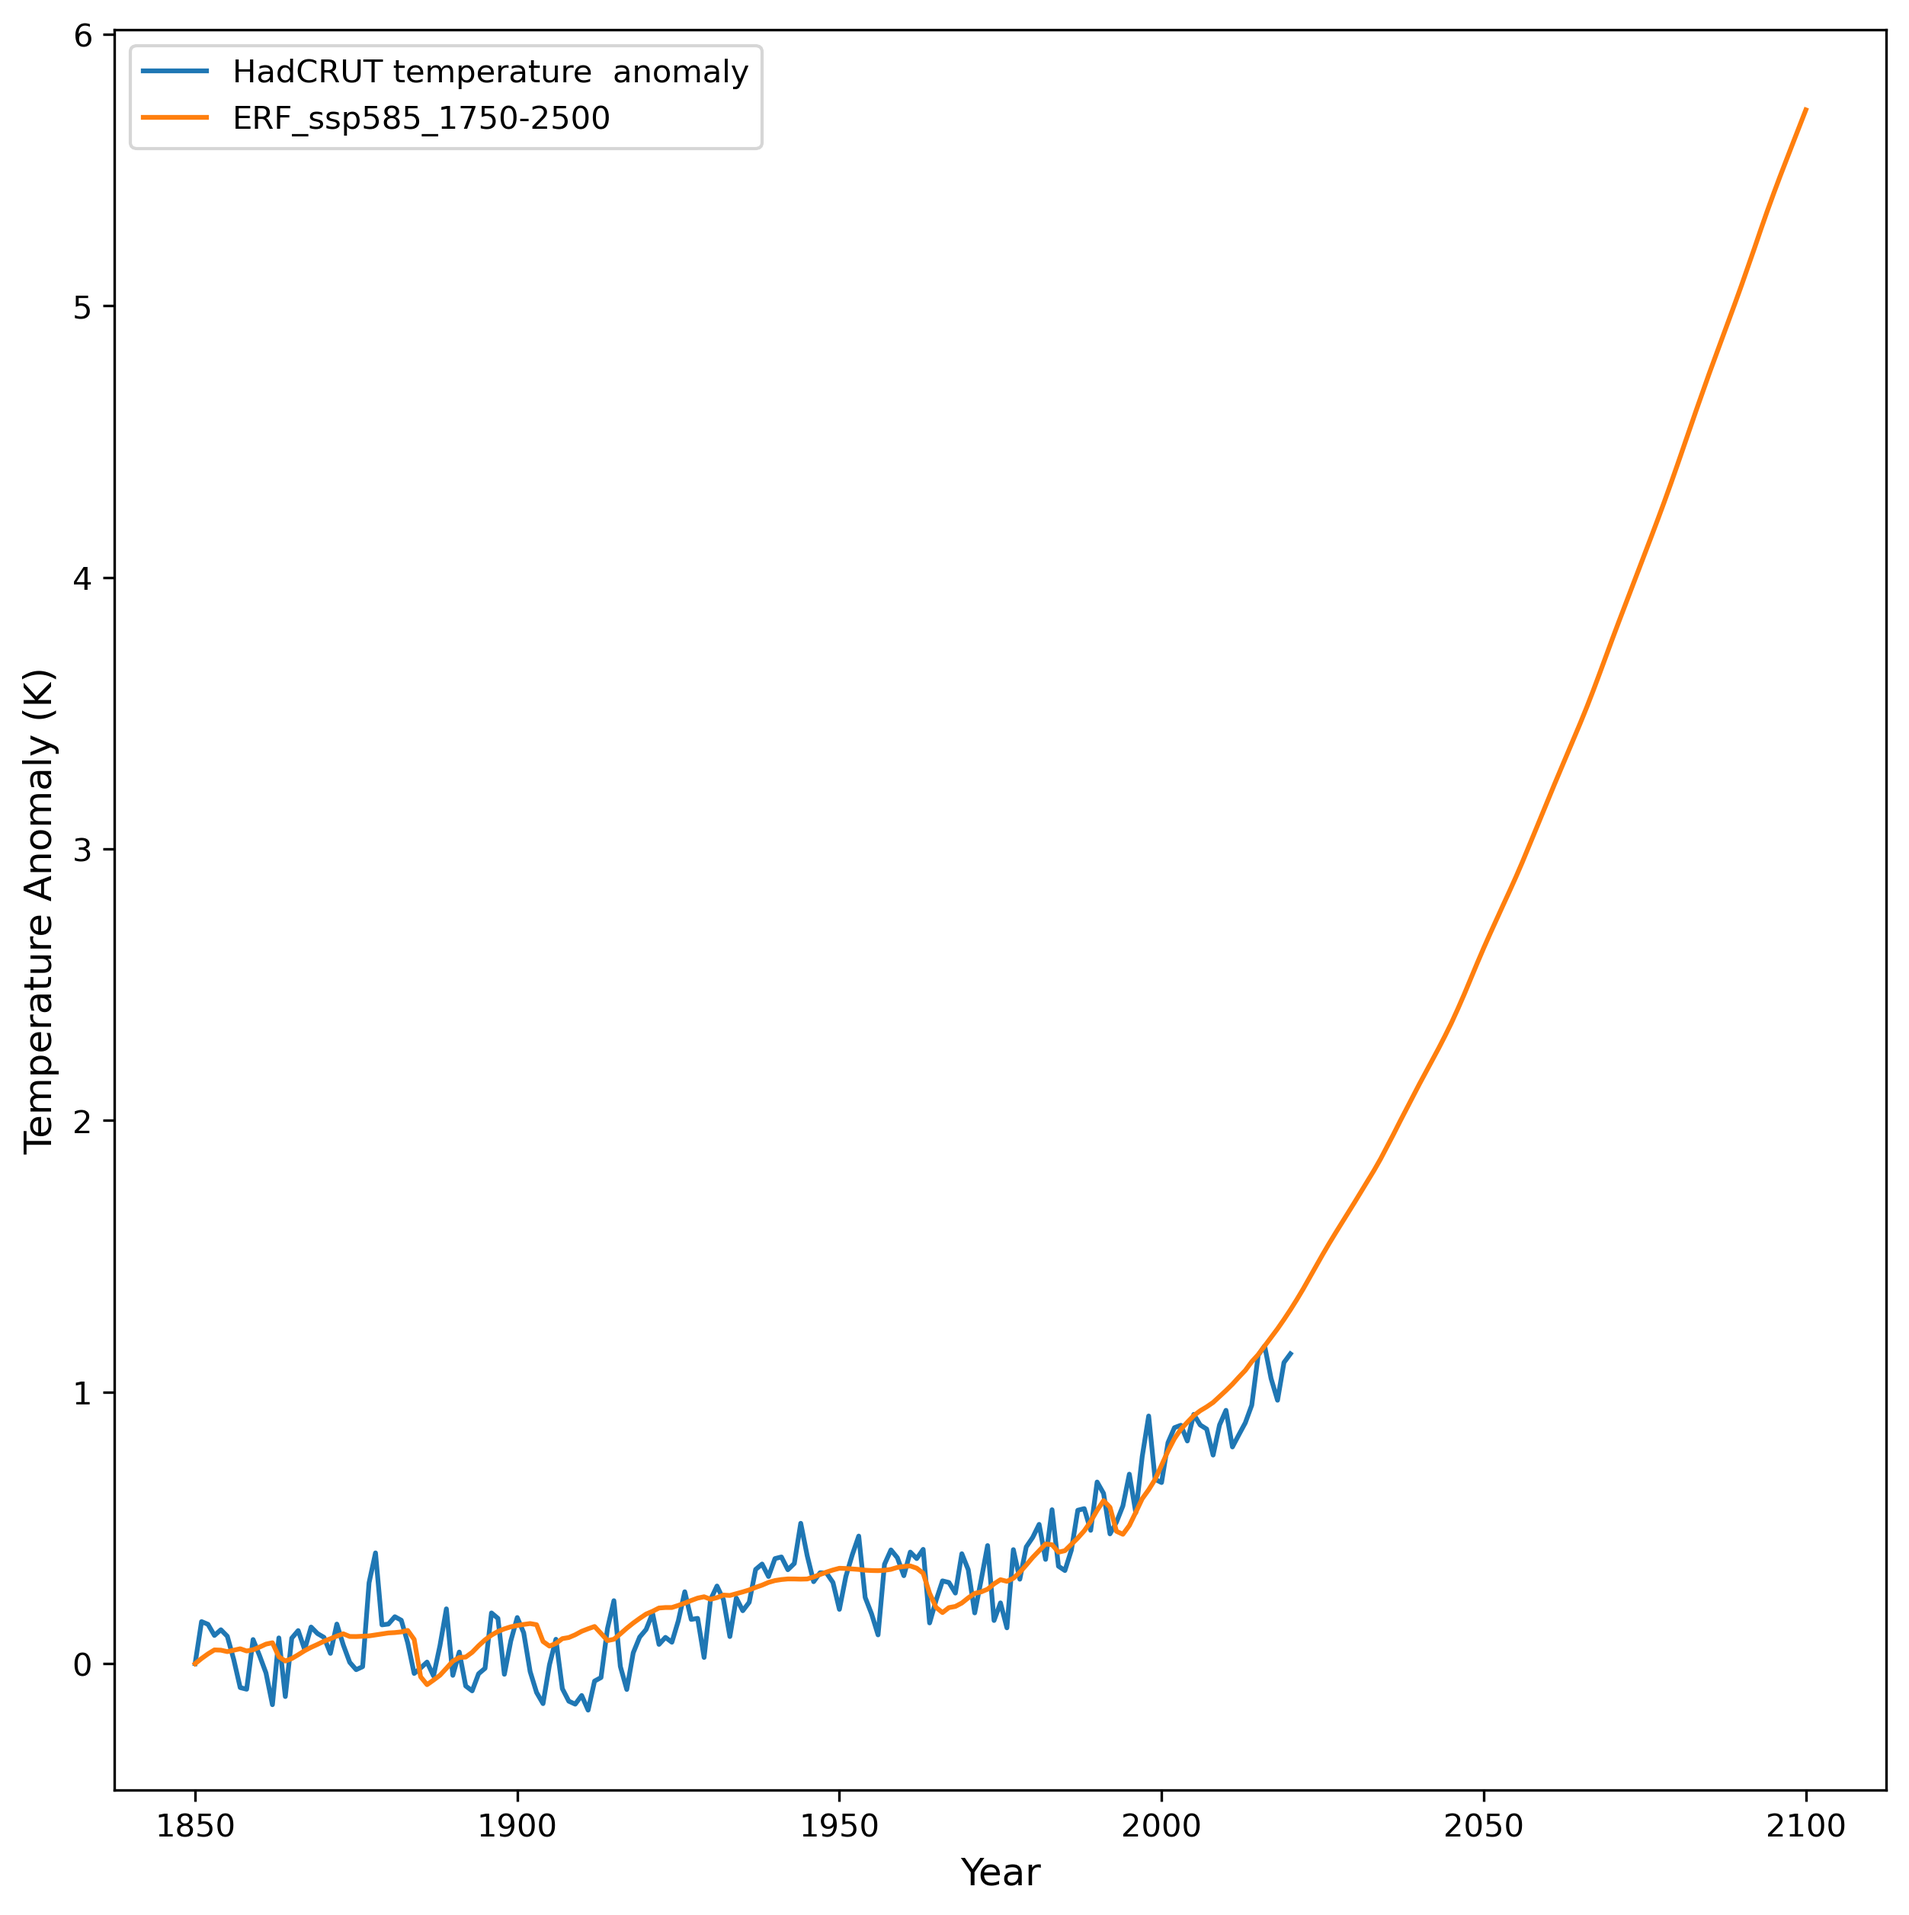
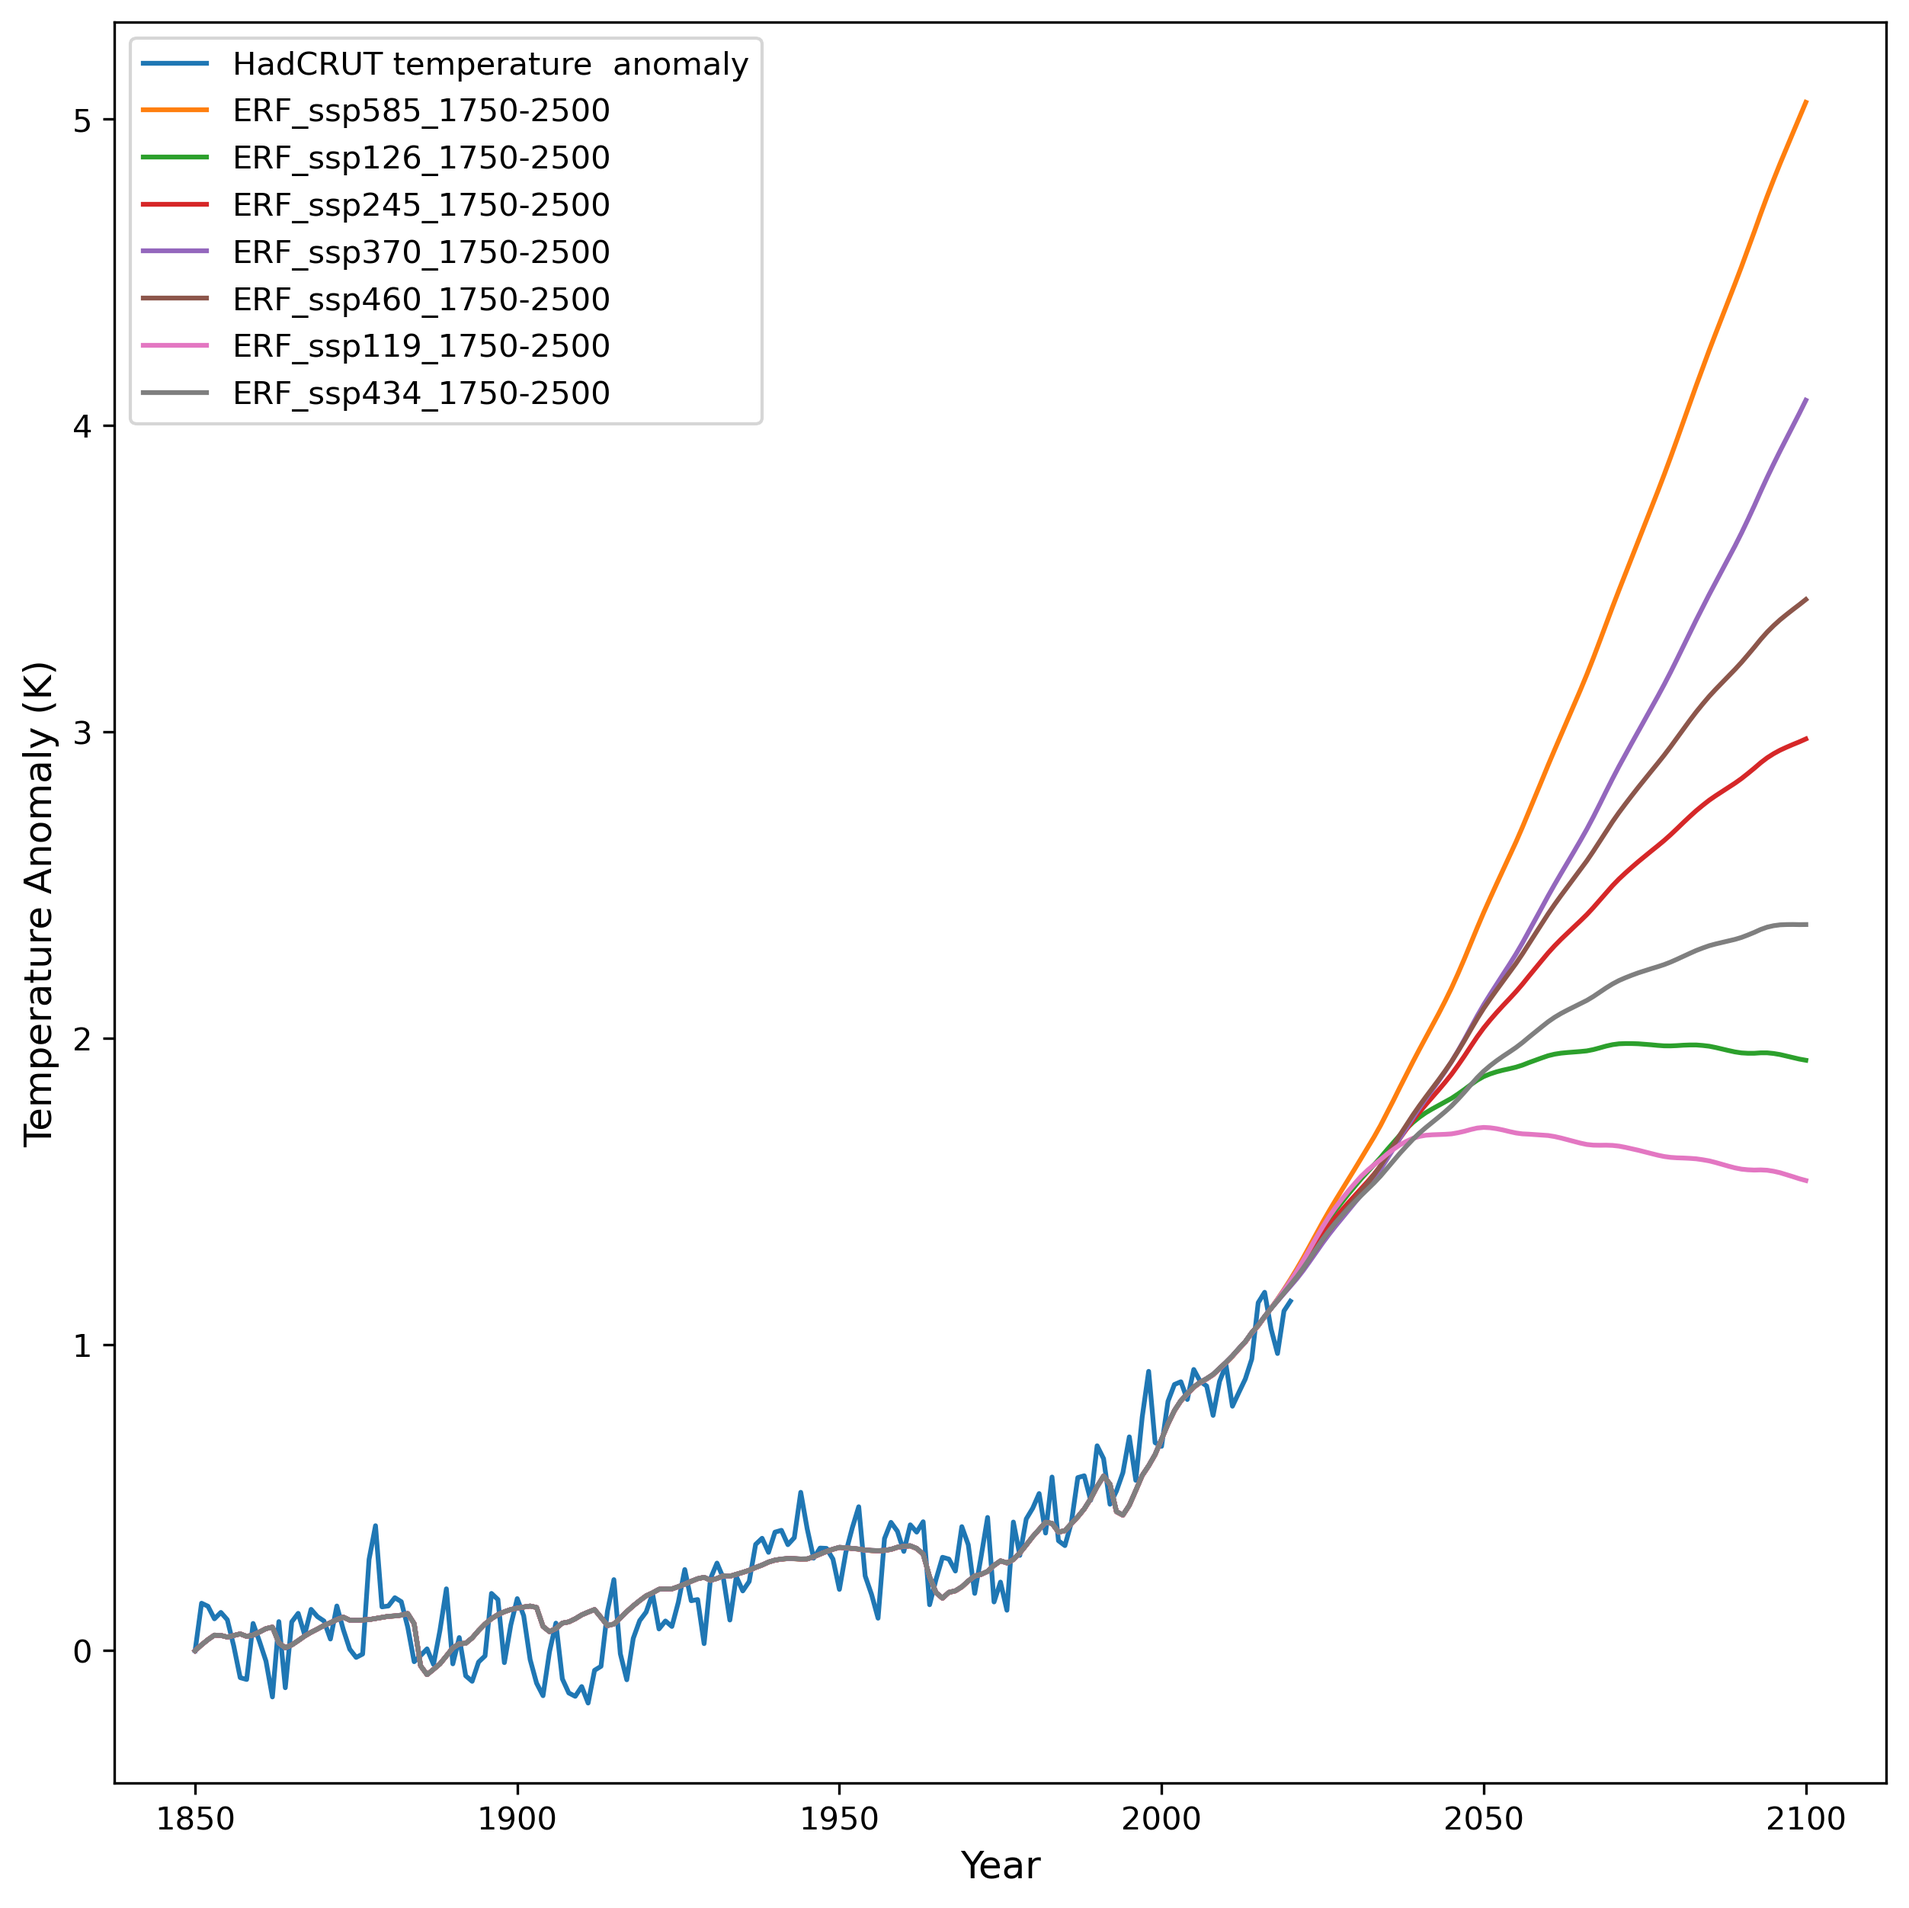
add volcanic shiz

diff --git a/experiments.py b/experiments.py
@@ -1,7 +1,6 @@
 import os 
 import pandas as pd
 import numpy as np
-import lmfit 
 from scripts import model
 import matplotlib.pyplot as plt
 
@@ -39,6 +38,15 @@ def plot_model(years, model,  label, ax=None, fig=None):
 def load_forcing_data(filename):
     ERF_data = pd.read_csv(filename)
     ERF_data = ERF_data.set_index('year')
+
+    print(ERF_data['total'].loc[2024:2100])
+    past_volcanic_record = len(ERF_data['volcanic'].loc[1850:2024]) 
+    new_vals = list(ERF_data['total'].loc[:2024].values)
+    new_vals.extend(ERF_data['total'].loc[2025:2024+past_volcanic_record].values + ERF_data['volcanic'].loc[1850:2024].values)
+    new_vals.extend(ERF_data['total'].loc[2024+past_volcanic_record+1:].values)
+    ERF_data['total'] = new_vals
+    print(ERF_data['total'].loc[2024:2100])
+
     ERF = np.array(ERF_data.loc[1850:2020]['total']) * FORCING_SENSITIVITY
     ERF_fut = np.array(ERF_data.loc[1850:2100]['total'] * FORCING_SENSITIVITY)
     return ERF, ERF_fut
@@ -90,8 +98,7 @@ def main():
 
         ## plot and save ouputs
         fig, ax = plot_model(years_fut, projection, label='%s' % (scen_file[:-4]), fig=fig, ax=ax)
-
-    fig.savefig('outputs/upper_ocean_projection.png', bbox_inches='tight', dpi=300)
+    fig.savefig('outputs/upper_ocean_projection_volcanic3.png', bbox_inches='tight', dpi=300)
 
 
 if __name__ == '__main__':

diff --git a/scripts/model.py b/scripts/model.py
@@ -39,9 +39,12 @@ def upper_ocean_temp(t, alpha, F=None):
     T_u = np.zeros(t)
     T_d = np.zeros(t)
     
+    to_add = 0.05
+    added_val = 0
     for i in range(t-1):
-        # if t > 200:
-        #     alpha-= 0.001
+        # if i > 200:
+        #     F[i] -= 2
+            # added_val += to_add
         T_u[i+1] = (1/C_u)*(F[i] - (alpha+gamma)*T_u[i] + T_d[i])*dt + T_u[i]
         T_d[i+1] = (gamma/C_d)*(T_u[i]-T_d[i])*dt + T_d[i]
     
